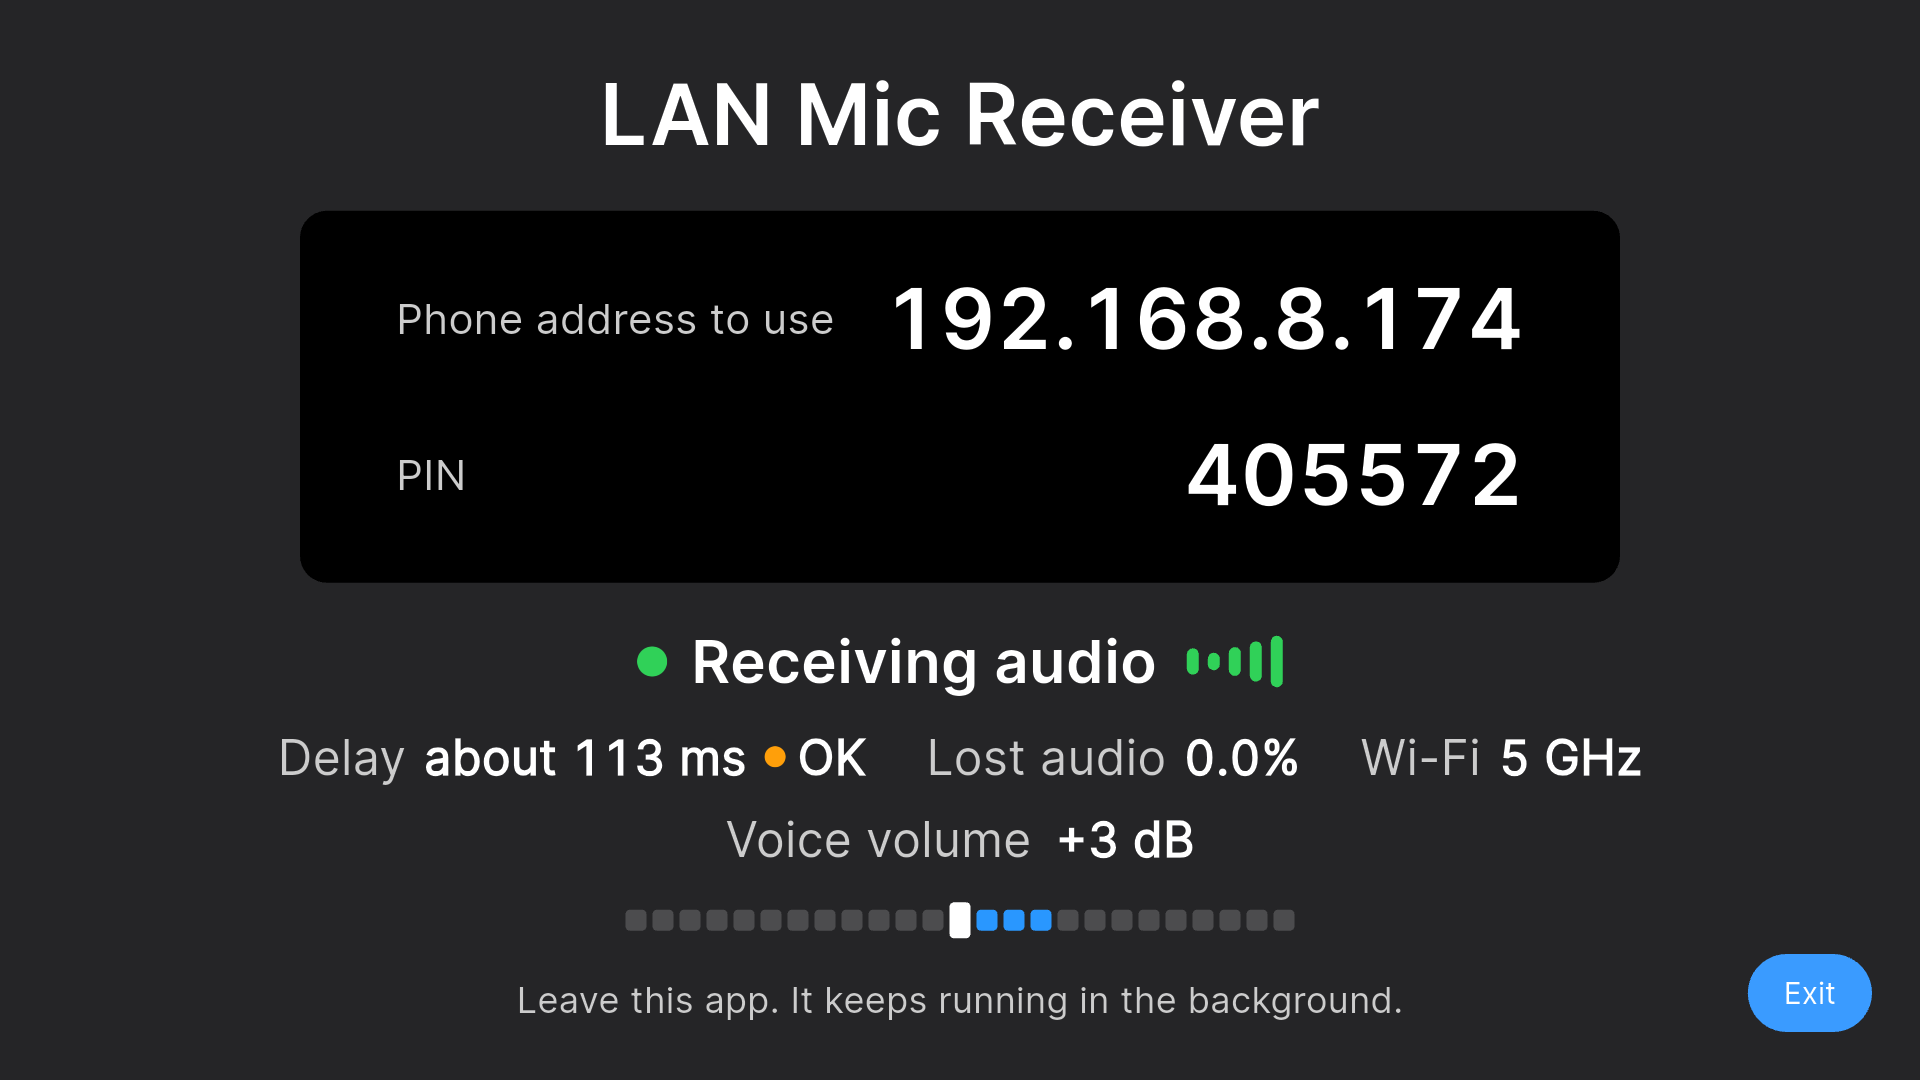
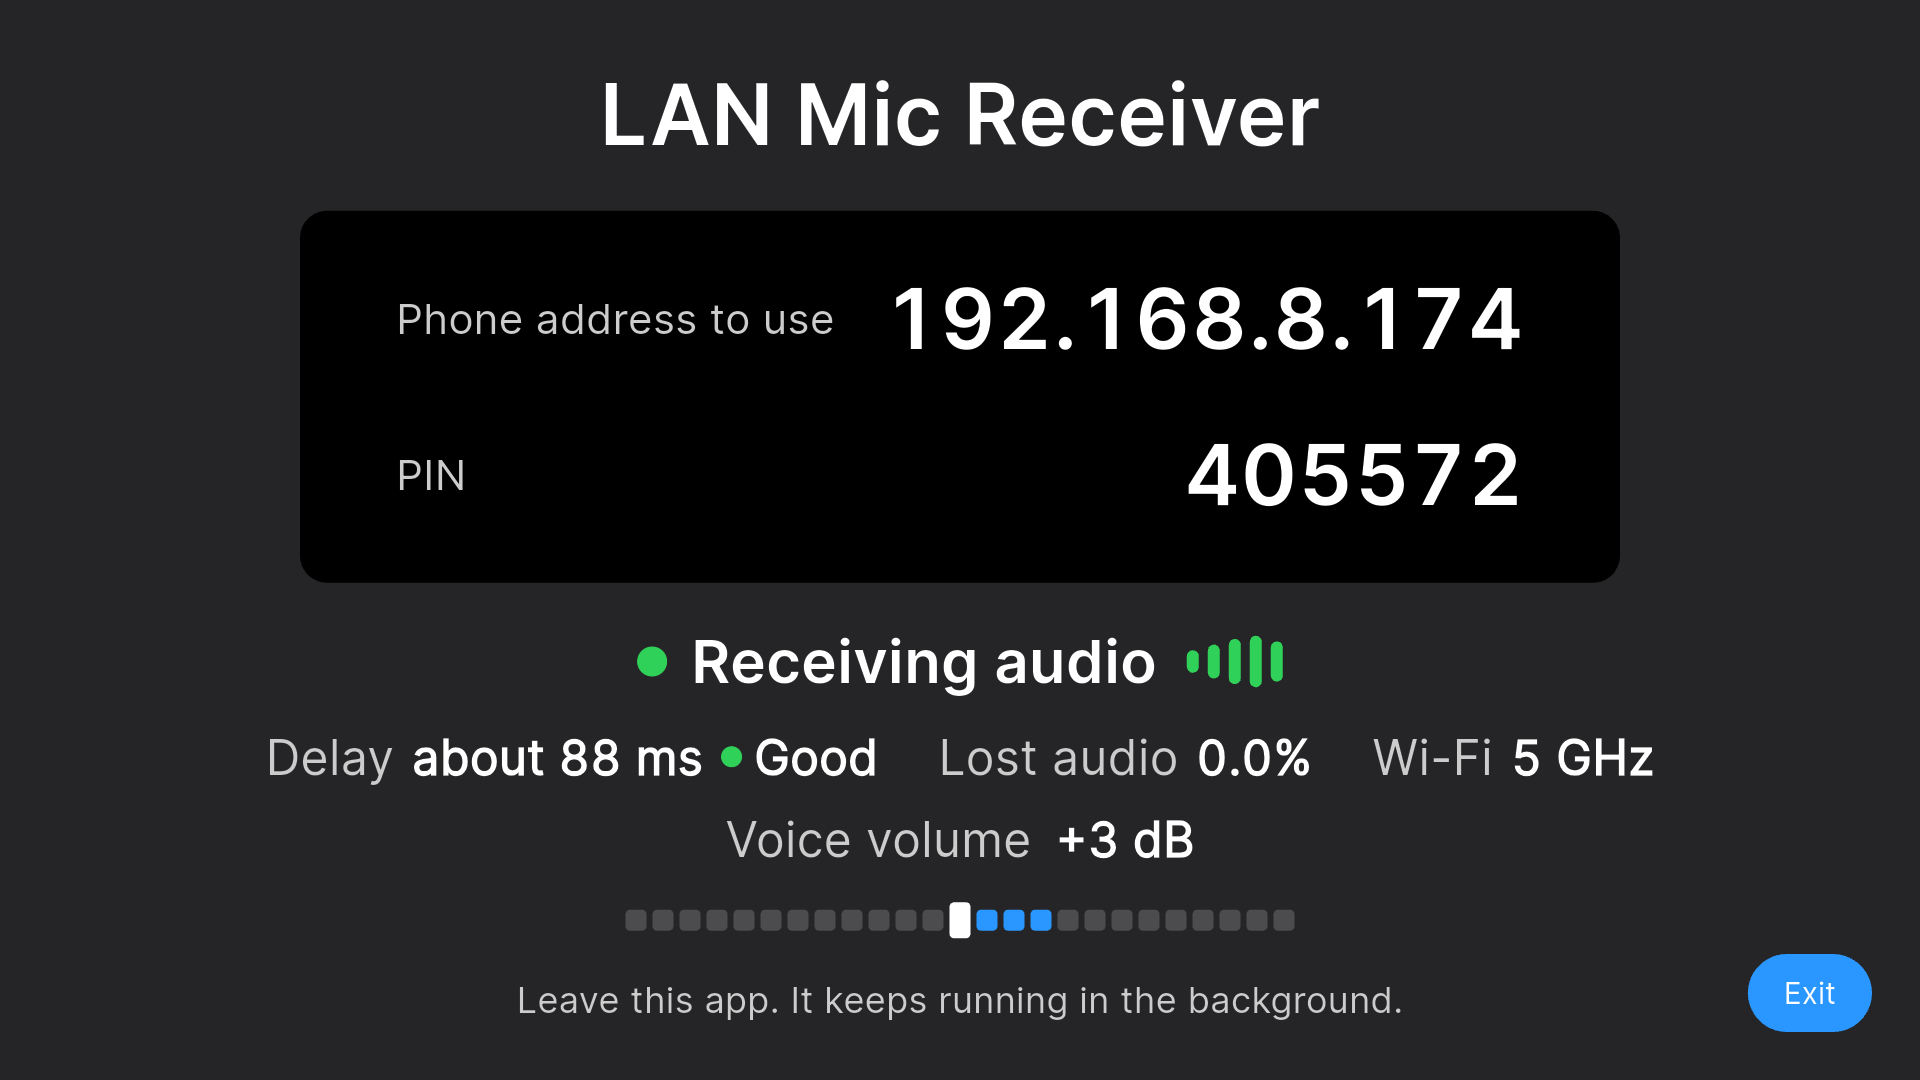
docs: new phone and TV screenshots for the README
Adds the live phone screenshot (stats card, Mic boost) and replaces the new
TV screenshot with one showing Delay Good. The 1.0 screenshots stay in
docs/screenshots.

Changed region(s): [[0.125, 0.6722, 0.6875, 0.7333], [0.7188, 0.6722, 0.875, 0.7333], [0.625, 0.5806, 0.6562, 0.6417]]

diff --git a/README.md b/README.md
@@ -8,8 +8,8 @@ Use your Android phone as a live wireless microphone for your Android TV. Your v
     <th>TV: LAN Mic Receiver</th>
   </tr>
   <tr>
-    <td><img src="docs/screenshots/phone-mic.png" alt="Phone app: connection stats card with delay, Mic boost slider, talk button" width="260"></td>
-    <td><img src="docs/screenshots/tv-receiver-stats.png" alt="TV app: address and PIN, Receiving audio, delay and lost-audio stats, Voice volume +3 dB" width="520"></td>
+    <td><img src="docs/screenshots/phone-mic-stats.png" alt="Phone app: live, connection stats card (Delay about 73 ms, Good), Mic boost slider, talk button" width="260"></td>
+    <td><img src="docs/screenshots/tv-receiver-stats.png" alt="TV app: address and PIN, Receiving audio, Delay about 88 ms Good, Lost audio, Voice volume +3 dB" width="520"></td>
   </tr>
 </table>
 
